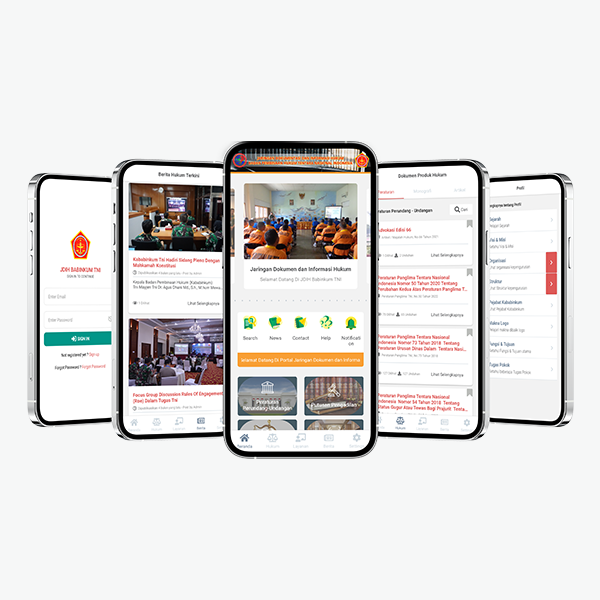
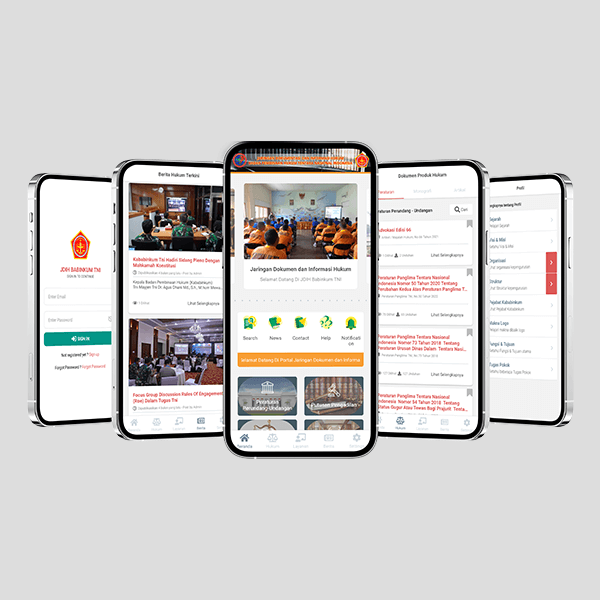
compress image

diff --git a/src/context/data.ts b/src/context/data.ts
@@ -14,7 +14,7 @@ export const myProjects: IProject[] = [
   {
     id: 1,
     name: "Eja Admin",
-    imgUrl: new URL("../img/ea1.png", import.meta.url).href,
+    imgUrl: new URL("../img/ea.png", import.meta.url).href,
     category: "Web",
     githubLink: "https://github.com/seljaworks/eja-admin",
     liveUrl: "https://eja-admin.vercel.app/",

diff --git a/src/main.tsx b/src/main.tsx
@@ -10,5 +10,3 @@ ReactDOM.createRoot(document.getElementById("root")!).render(
     </ProjectContextProvider>
   </React.StrictMode>
 );
-
-//TODO: add hover effect to grid item

diff --git a/src/App.tsx b/src/App.tsx
@@ -16,6 +16,3 @@ const App: React.FC<AppProps> = () => {
 };
 
 export default App;
-
-//TODO: compress all image
-//TODO: fix image path
